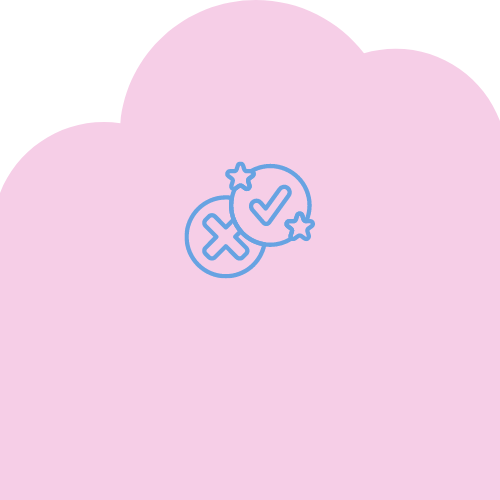
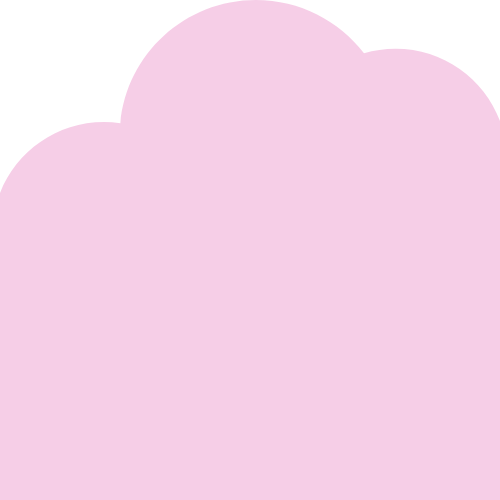
atualização da pg home

Changed region(s): [[0.36, 0.33, 0.63, 0.57]]

diff --git a/src/Paginas/Home/Componentes/Caracteristicas.jsx b/src/Paginas/Home/Componentes/Caracteristicas.jsx
@@ -2,27 +2,42 @@ import './css/caracteristicas.css'
 import nuvem1 from '../Img/nuvem1.png'
 import nuvem2 from '../Img/nuvem2.png'
 import nuvem3 from '../Img/nuvem3.png'
+import i_jogo from '../Img/icon_jogo.svg'
+import i_quiz from '../Img/icon_quiz.svg'
+import i_video from '../Img/icon_video.svg'
 
 export default function Caracteristicas() {
   return (
     <div className="container-nuvens">
+        
         <div className="nuvem">
-            <img src={nuvem1} class="img-fluid nuvens-img" alt="videos"></img>
-            <p className="nuvem-text">
-                Vídeos curtos  sobre exames e diagnósticos.
-            </p>
+            <img src={nuvem1} class="img-fluid nuvens-img" alt="nuvem"></img>
+            <div className="content">
+                <img src={i_video} class="img-fluid" alt="videos"></img>
+                <span className="nuvem-text">
+                    Vídeos curtos  sobre exames e diagnósticos.
+                </span>
+            </div>
         </div>
+
         <div className="nuvem">
             <img src={nuvem2} class="img-fluid nuvens-img" alt="jogos"/>
-            <p className="nuvem-text">
-                Jogos dinâmicos para entreter e informar.
-            </p>
+            <div className="content">
+                <img src={i_jogo} class="img-fluid" alt="jogos"></img>
+                <span className="nuvem-text">
+                    Jogos dinâmicos para entreter e informar.
+                </span>
+            </div>
         </div>
+
         <div className="nuvem">
             <img src={nuvem3} class="img-fluid nuvens-img" alt="conhecimento"/>
-            <p className="nuvem-text">
-                Feedbacks e tratamento personalizado. 
-            </p>
+            <div className="content">
+                <img src={i_quiz} class="img-fluid" alt="quiz"></img>
+                <span className="nuvem-text">
+                    Feedbacks e tratamento personalizado. 
+                </span>
+            </div>
         </div>
     </div>
   )

diff --git a/src/Paginas/Home/Componentes/css/caracteristicas.css b/src/Paginas/Home/Componentes/css/caracteristicas.css
@@ -10,27 +10,28 @@
 }
 
 .nuvem {
-    position: relative;
+    position: relative; 
     transition: transform 100ms;
 }
 
-.nuvem:hover {
-    transform: scale(1.08);
-}
-
-.nuvem img:hover {
-    border-bottom-left-radius: 10px;
-    border-bottom-right-radius: 10px;
-    
-}
-
-.nuvens-img {
+.nuvem img {
     width: 100%;
+}
+
+.nuvem:hover {
+    transform: scale(1.023);
+}
+
+.content img{
+    position: absolute;
+    top: 40%;
+    left: 37%;
+    width: 20%;
 }
 
 .nuvem-text {
     position: absolute;
-    top: 70%;
+    top: 80%;
     left: 50%;
     transform: translate(-50%, -50%);
     text-align: center;

diff --git a/src/Paginas/Home/Componentes/css/sobreProjeto.css b/src/Paginas/Home/Componentes/css/sobreProjeto.css
@@ -54,6 +54,7 @@ section {
     color: white;
     font-size: 1.60rem;
     font-weight: bold;
+    width: 100%;
 }
 
 .card-style {
